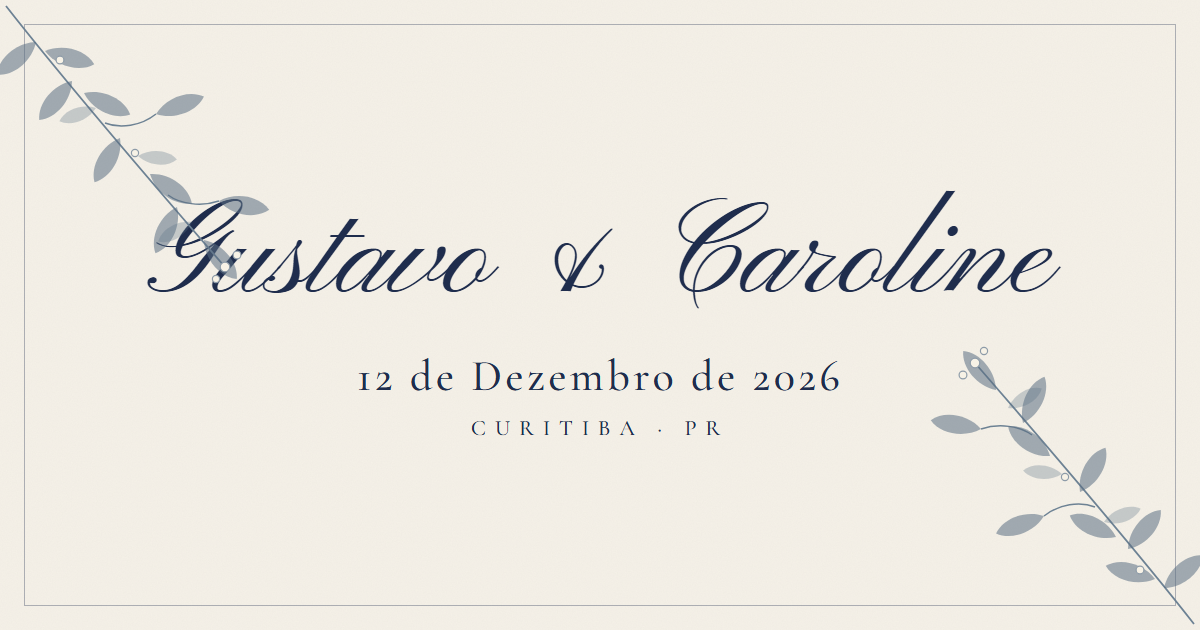
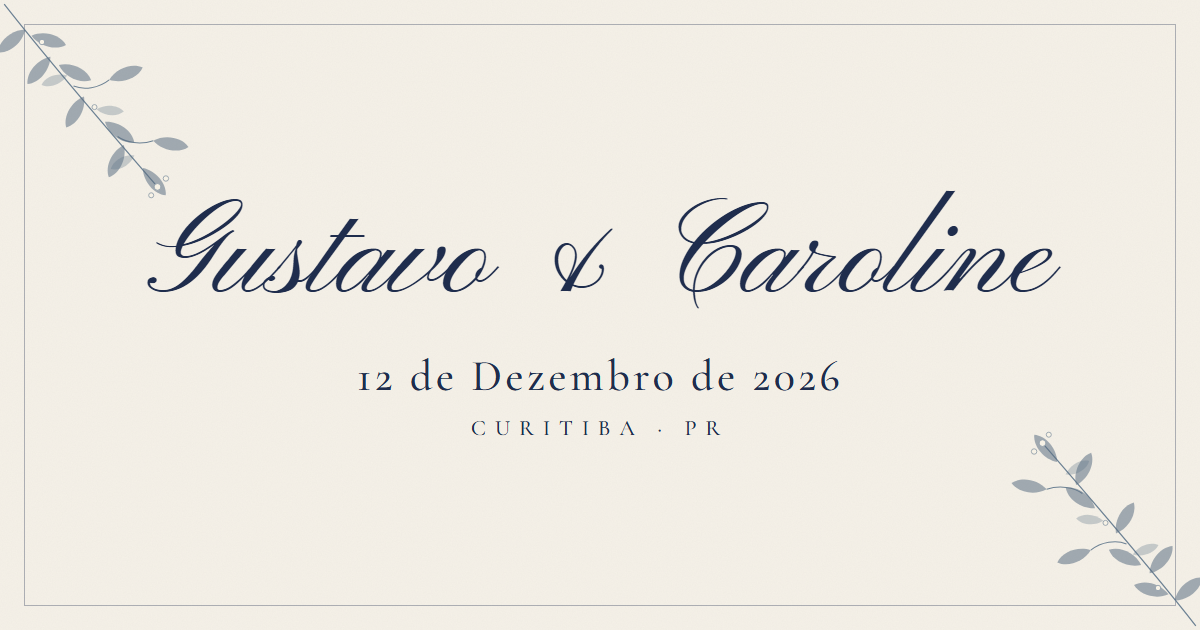
fix: reduzir ramos para 210px e evitar sobreposição de texto

Changed region(s): [[0.7708, 0.5429, 1.0, 0.9651], [0.0, 0.0302, 0.2158, 0.4524]]

diff --git a/assets/og.html b/assets/og.html
@@ -7,7 +7,7 @@
   html, body { margin: 0; width: 1200px; height: 630px; overflow: hidden; }
   body { background: #f5f1e8 url(papel.svg); color: #1f2d4d; font-family: 'Cormorant Garamond', serif; display: grid; place-items: center; text-align: center; position: relative; }
   .borda { position: absolute; inset: 24px; border: 1px solid #1f2d4d55; }
-  img { position: absolute; width: 300px; }
+  img { position: absolute; width: 210px; }
   .tl { top: 0; left: 0; transform: scaleY(-1); }
   .br { bottom: 0; right: 0; transform: scaleX(-1); }
   h1 { font-family: 'Pinyon Script', cursive; font-weight: 400; font-size: 130px; line-height: 1.1; margin: 0; }
